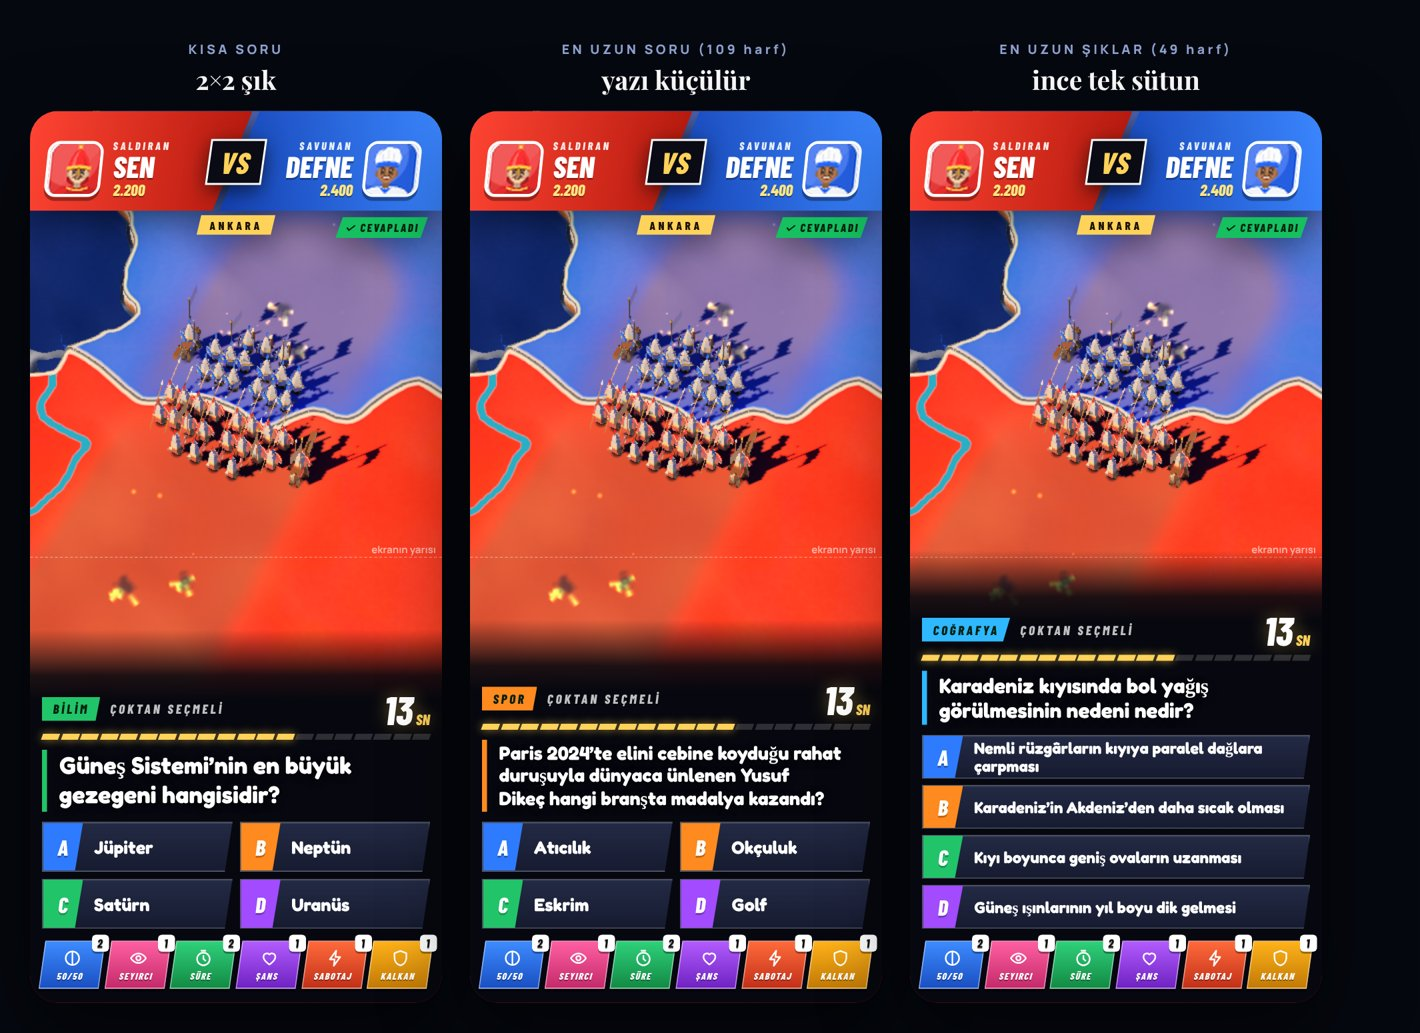
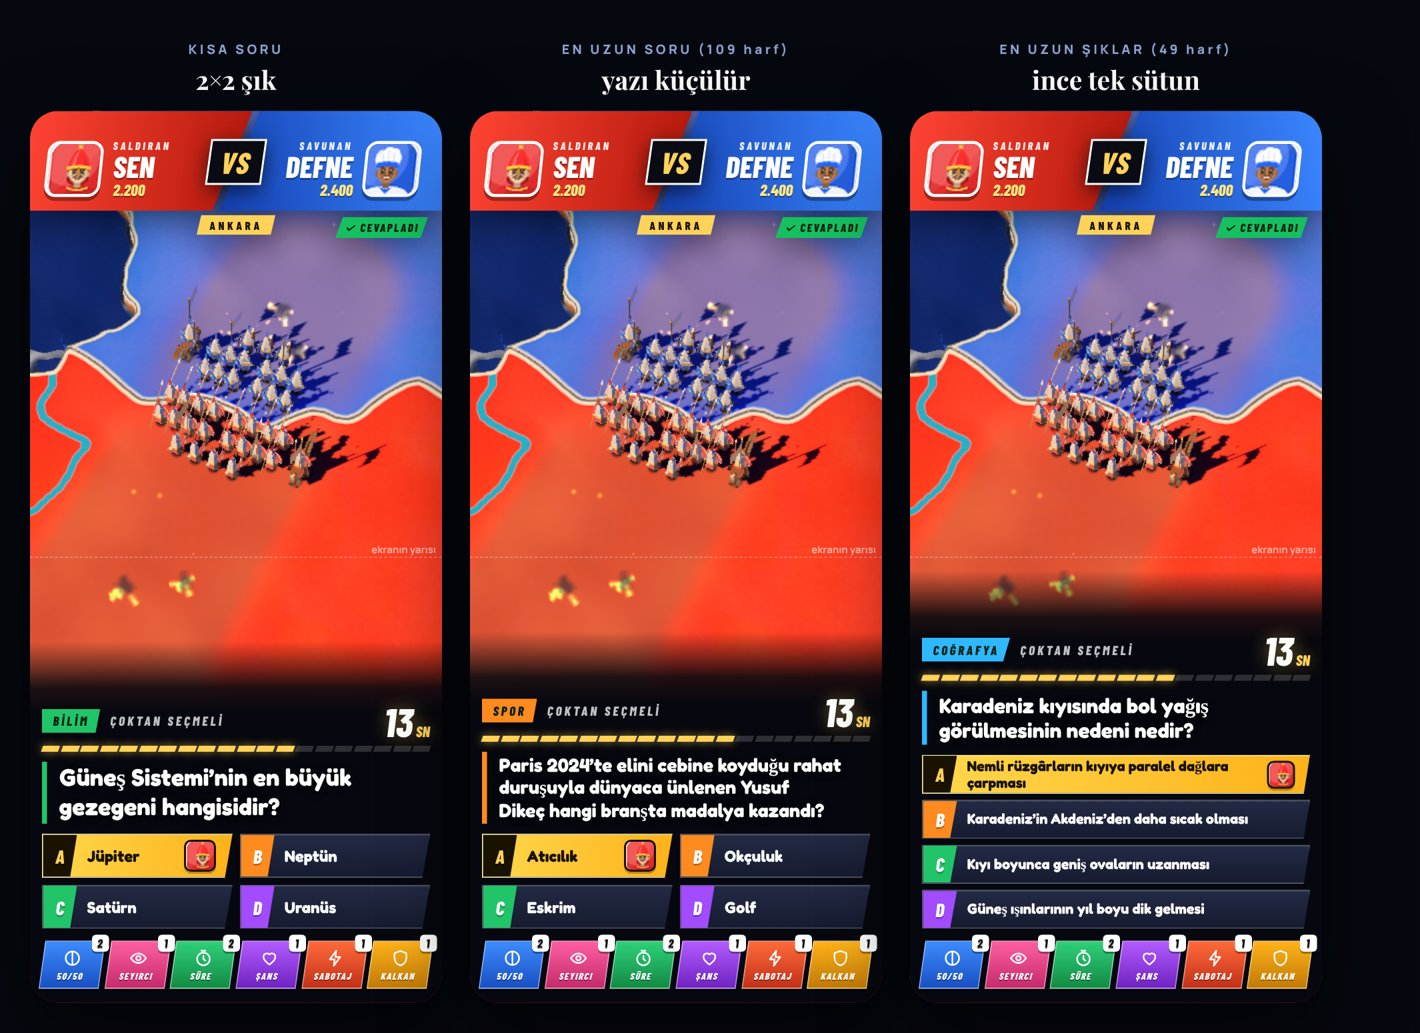
Fetih Ligi: Arena taslağı: seçenin avatarı şıkta ortalı, şıklar küçüldü
Claude-Session: https://claude.ai/code/session_01Bviiots2u7G4hsmVt9v3vh

Changed region(s): [[0.0, 0.5266, 0.9296, 0.8984]]

diff --git a/game/fetih/ref/tasarim-v14-yonler.py b/game/fetih/ref/tasarim-v14-yonler.py
@@ -167,13 +167,17 @@ C_CSS = """
 .c h2{font-family:Fredoka;font-weight:700;line-height:1.2;text-wrap:balance;padding:2px 4px 2px 12px;margin-bottom:10px;border-left:5px solid var(--cc);color:#fff;text-shadow:0 2px 8px rgba(0,0,0,.6)}
 .c .ops{display:grid;grid-template-columns:1fr 1fr;gap:7px}
 .c .ops.list{grid-template-columns:1fr;gap:6px}
-.c .op{position:relative;min-height:50px;display:flex;align-items:center;background:linear-gradient(180deg,#232a44,#161b30);border:1.5px solid rgba(255,255,255,.28);
+.c .op{position:relative;min-height:44px;display:flex;align-items:center;background:linear-gradient(180deg,#232a44,#161b30);border:1.5px solid rgba(255,255,255,.28);
   clip-path:polygon(0 0,100% 0,96% 100%,0 100%);font-family:Fredoka;font-weight:700;line-height:1.15;color:#fff;box-shadow:inset 0 1px 0 rgba(255,255,255,.12);padding-right:18px}
-.c .ops.list .op{min-height:44px;clip-path:polygon(0 0,100% 0,98.4% 100%,0 100%)}
-.c .op i{flex:none;align-self:stretch;width:40px;display:grid;place-items:center;margin-right:11px;font:italic 800 22px 'Barlow Condensed';font-style:italic;color:#fff;background:var(--lc);clip-path:polygon(0 0,100% 0,80% 100%,0 100%);text-shadow:0 2px 0 rgba(0,0,0,.25)}
+.c .ops.list .op{min-height:39px;clip-path:polygon(0 0,100% 0,98.4% 100%,0 100%)}
+.c .op i{flex:none;align-self:stretch;width:34px;display:grid;place-items:center;margin-right:10px;font:italic 800 19px 'Barlow Condensed';font-style:italic;color:#fff;background:var(--lc);clip-path:polygon(0 0,100% 0,80% 100%,0 100%);text-shadow:0 2px 0 rgba(0,0,0,.25)}
 .c .op:nth-child(1) i{--lc:#2f7bff}.c .op:nth-child(2) i{--lc:#ff8a1f}.c .op:nth-child(3) i{--lc:#22c46a}.c .op:nth-child(4) i{--lc:#a24bff}
 .c .op.pk{background:linear-gradient(90deg,#ffd84d,#ffb21a);color:#1a1200;border-color:#fff3b0}
 .c .op.pk i{background:#1a1200;color:#ffd25a}
+.c .op.pk{padding-right:48px}
+/* seçenin avatarı: sağda, şıkkın içinde dikeyde tam ortada; eğik kenardan payı var */
+.c .op.pk::after{content:'';position:absolute;right:16px;top:50%;width:28px;height:28px;transform:translateY(-50%);border-radius:7px;border:2px solid #1a1200;background:url(XSENX) center/cover;box-shadow:0 2px 0 rgba(0,0,0,.25)}
+.c .ops.list .op.pk::after{width:24px;height:24px;right:14px}
 .c .jk{display:flex;gap:6px;margin-top:12px}
 .c .j{position:relative;flex:1;height:48px;display:flex;flex-direction:column;align-items:center;justify-content:center;gap:2px;background:linear-gradient(180deg,var(--jc),var(--jd));border:1.5px solid rgba(255,255,255,.5);transform:skewX(-8deg);
   font:italic 800 9.5px 'Barlow Condensed';letter-spacing:.12em;color:#fff;text-shadow:0 1px 0 rgba(0,0,0,.35);box-shadow:0 3px 0 rgba(0,0,0,.4)}
@@ -181,13 +185,13 @@ C_CSS = """
 .c .j sup{position:absolute;right:-5px;top:-7px;min-width:17px;height:17px;padding:0 4px;transform:skewX(8deg);background:#fff;color:#111;border-radius:4px;font:italic 800 12px/17px 'Barlow Condensed';text-align:center;box-shadow:0 2px 0 rgba(0,0,0,.35)}
 .c .ruler{position:absolute;left:0;right:0;top:50%;border-top:1px dashed rgba(255,255,255,.35)}
 .c .ruler span{position:absolute;right:6px;top:-16px;font:700 10px Manrope;color:rgba(255,255,255,.6)}
-"""
+""".replace("XSENX", SEN)
 JC = {'yari': ('#3d8bff', '#1a4fc2'), 'seyirci': ('#ff5fa2', '#c42a6a'), 'sure': ('#2fd07a', '#138a45'), 'sans': ('#b25bff', '#6f22c2'), 'sabotaj': ('#ff6a3a', '#c2301a'), 'kalkan': ('#ffb21a', '#c27a06')}
 def C(q=Q, opts=OPTS, cat='BİLİM', cc='#22c46a', ruler=False):
     grid = max(len(o) for o in opts) <= 16                  # kısa şıklar 2×2, uzunlar ince tek sütun
     qf = 24 if len(q) <= 50 else 21 if len(q) <= 80 else 19  # soru uzadıkça yazı küçülür
-    of = (18 if grid else (16 if max(len(o) for o in opts) > 34 else 17))
-    ops = ''.join(f'<div class="op"><i>{"ABCD"[k]}</i>{o}</div>' for k, o in enumerate(opts))
+    of = (16 if grid else (14.5 if max(len(o) for o in opts) > 34 else 15.5))
+    ops = ''.join(f'<div class="op{" pk" if k == 0 else ""}"><i>{"ABCD"[k]}</i>{o}</div>' for k, o in enumerate(opts))
     jk = ''.join(f'<div class="j" style="--jc:{JC[k][0]};--jd:{JC[k][1]}">{ICO[k]}{n.upper()}<sup>{c}</sup></div>' for k, n, c in JK)
     seg = ''.join(f'<i class="{"off" if k >= 13 else ""}"></i>' for k in range(20))
     rl = '<div class="ruler"><span>ekranın yarısı</span></div>' if ruler else ''
